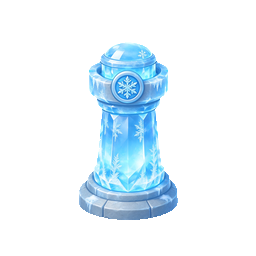
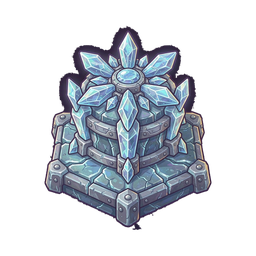
v1.17.14 art: 冰/毒塔俯视图标替换(毒塔三管120°v2)+四塔主体占比92%→80%+塔槽隐藏ⓘ圆标与弹药数字

diff --git a/js/game/render.js b/js/game/render.js
@@ -790,10 +790,8 @@ class Renderer {
         }
         // 等级（v1.17.10 不再显示右上角数字徽章，改槽底小字，避免遮挡塔图标）
         text(ctx, `Lv${tw.level}`, x + slotSize / 2, slotY + slotSize - 10, 13, 'rgba(255,255,255,0.75)', 'center');
-        // 可点详情小圆标 ⓘ（点击塔图标查看攻击/攻击间隔/技能等级）
-        ctx.fillStyle = 'rgba(255,255,255,0.85)';
-        ctx.beginPath(); ctx.arc(x + 17, slotY + 17, 11, 0, Math.PI * 2); ctx.fill();
-        text(ctx, 'i', x + 17, slotY + 21, 14, '#1a1a1a', 'center');
+        // v1.17.14：移除左上角 ⓘ 圆标与弹药条顶部数字——俯视塔占满槽位后两者都压住主体，
+        //   且整槽本身可点（slotAt），圆标无需保留；弹药量改由柱条高度 + 颜色表达。
         // v1.13.1 弹药条：图标右侧纵向柱状（自下而上填充，ammo/ammoMax），无弹药红色警示
         const aRatio = tw.ammoMax > 0 ? Math.min(1, (tw.ammo || 0) / tw.ammoMax) : 0;
         const bx = x + slotSize - 9;              // 槽内右侧竖条
@@ -803,7 +801,6 @@ class Renderer {
         ctx.fillRect(bx, by0, 7, bh);
         ctx.fillStyle = aRatio <= 0 ? '#ff6b6b' : (aRatio < 0.34 ? '#ffb347' : '#7ef0a3');
         ctx.fillRect(bx, by0 + bh - Math.max(1, bh * aRatio), 7, Math.max(1, bh * aRatio));
-        text(ctx, `${tw.ammo || 0}`, bx + 3, slotY + 5, 10, aRatio <= 0 ? '#ff6b6b' : 'rgba(255,255,255,0.7)', 'center');
         // v1.8：移除单塔经验条（经验整体化，经验条在出怪区上方）
       }
       x += slotSize + slotGap;

diff --git a/tools/_keyout_towers_v11714.py b/tools/_keyout_towers_v11714.py
@@ -1,0 +1,162 @@
+# -*- coding: utf-8 -*-
+"""v1.17.14 塔图标替换流水线（四塔版）
+
+相对 v1.17.13 的两处变化：
+1. 主体占比 92% → 80%（槽内四周留呼吸感，俯视塔不至于顶格）
+2. JOBS 扩到火/冰/毒/炮四塔，预览图合成四塔同屏接触表
+
+抠图难点：背景 (25,17,28) 与描边 #0E0B14 色距仅约 15，普通色距抠图会吃掉描边
+→ 从画面边缘 flood-fill，只删与边缘连通的背景（描边闭合，内部暗场不受影响）
+"""
+import os, shutil
+from collections import deque, Counter
+from PIL import Image, ImageFilter, ImageDraw, ImageFont
+
+ROOT = os.path.dirname(os.path.dirname(os.path.abspath(__file__)))
+os.chdir(ROOT)
+ART = "art/towers_v1"
+TOWERS = "assets/images/towers"
+BK = os.path.join(ART, "backup_sideview")
+os.makedirs(BK, exist_ok=True)
+
+JOBS = [
+    ("tower_fire_top_v1.png", "fire.png"),
+    ("tower_ice_top_v1.png", "ice.png"),
+    ("tower_poison_top_v2.png", "poison.png"),
+    ("tower_cannon_top_v1.png", "cannon.png"),
+]
+TOL = 10.0     # 背景与描边色距 ~15，取 10 保描边
+RATIO = 0.80   # v1.17.14：主体占画布比例（原 0.92）
+
+
+def keyout(fp_in, tol=TOL, ratio_target=RATIO):
+    im = Image.open(fp_in).convert("RGB")
+    w, h = im.size
+    px = im.load()
+    border = []
+    for x in range(w):
+        border.append(px[x, 0]); border.append(px[x, h - 1])
+    for y in range(h):
+        border.append(px[0, y]); border.append(px[w - 1, y])
+    bg = Counter(border).most_common(1)[0][0]
+    t2 = tol * tol
+
+    def isbg(c):
+        dr = c[0] - bg[0]; dg = c[1] - bg[1]; db = c[2] - bg[2]
+        return dr * dr + dg * dg + db * db <= t2
+
+    bgmask = bytearray(w * h)
+    q = deque()
+    for x in range(w):
+        for y in (0, h - 1):
+            i = y * w + x
+            if not bgmask[i] and isbg(px[x, y]):
+                bgmask[i] = 1; q.append((x, y))
+    for y in range(h):
+        for x in (0, w - 1):
+            i = y * w + x
+            if not bgmask[i] and isbg(px[x, y]):
+                bgmask[i] = 1; q.append((x, y))
+    while q:
+        x, y = q.popleft()
+        for nx, ny in ((x + 1, y), (x - 1, y), (x, y + 1), (x, y - 1)):
+            if 0 <= nx < w and 0 <= ny < h:
+                i = ny * w + nx
+                if not bgmask[i] and isbg(px[nx, ny]):
+                    bgmask[i] = 1; q.append((nx, ny))
+    removed = sum(bgmask)
+    ratio = removed / (w * h)
+    if ratio > 0.60:
+        print("  [WARN] 背景删除占比 %.0f%%，疑似描边漏色（检查 tol）" % (ratio * 100))
+
+    # 前景连通域过滤：只保留 >= 最大连通域 1% 的岛（清掉水印/噪点）
+    fg = bytearray(1 - b for b in bgmask)
+    seen = bytearray(w * h)
+    keep = bytearray(w * h)
+    comps = []
+    for i in range(w * h):
+        if fg[i] and not seen[i]:
+            comp = []
+            q = deque([i]); seen[i] = 1
+            while q:
+                j = q.popleft(); comp.append(j)
+                x, y = j % w, j // w
+                for nx, ny in ((x + 1, y), (x - 1, y), (x, y + 1), (x, y - 1)):
+                    if 0 <= nx < w and 0 <= ny < h:
+                        k = ny * w + nx
+                        if fg[k] and not seen[k]:
+                            seen[k] = 1; q.append(k)
+            comps.append(comp)
+    comps.sort(key=len, reverse=True)
+    biggest = len(comps[0]) if comps else 0
+    for comp in comps:
+        if len(comp) >= biggest * 0.01:
+            for j in comp:
+                keep[j] = 1
+    dropped = biggest and (len(fg) - sum(keep)) or 0
+
+    # alpha 通道 + 羽化 1px
+    alpha = Image.frombytes("L", (w, h), bytes(255 if keep[i] else 0 for i in range(w * h)))
+    alpha = alpha.filter(ImageFilter.GaussianBlur(1.0))
+    rgba = im.convert("RGBA")
+    rgba.putalpha(alpha)
+
+    # 裁边 + 居中（主体占 ratio_target）+ 256 输出
+    bbox = alpha.point(lambda v: 255 if v > 12 else 0).getbbox()
+    if not bbox:
+        raise RuntimeError("抠图后主体为空: " + fp_in)
+    subj = rgba.crop(bbox)
+    sw, sh = subj.size
+    side = int(max(sw, sh) / ratio_target)
+    canvas = Image.new("RGBA", (side, side), (0, 0, 0, 0))
+    canvas.paste(subj, ((side - sw) // 2, (side - sh) // 2), subj)
+    out = canvas.resize((256, 256), Image.LANCZOS)
+    print("  bg=%s 删背景%.0f%% 弃岛%dpx 主体%dx%d 占比%.0f%%"
+          % (bg, ratio * 100, dropped, sw, sh, ratio_target * 100))
+    return out
+
+
+previews = []
+for src, dst in JOBS:
+    fp_src = os.path.join(ART, src)
+    if not os.path.exists(fp_src):
+        print("跳过（缺原图）", fp_src)
+        previews.append(None)
+        continue
+    old = os.path.join(TOWERS, dst)
+    if os.path.exists(old):
+        bak = os.path.join(BK, dst)
+        # 只备份首次（真·旧侧视图），避免用新版覆盖备份
+        if not os.path.exists(bak):
+            shutil.copy2(old, bak)
+            print("备份 %s -> backup_sideview/" % dst)
+    out = keyout(fp_src)
+    out.save(os.path.join(TOWERS, dst))
+    print("写入", os.path.join(TOWERS, dst), out.size)
+    previews.append(out)
+
+# ---- 游戏内预览合成：tower_row_dark 背景 + 四塔同屏 ----
+S = 2
+row = Image.open("assets/images/ui/tower_row_dark.jpg").convert("RGB")
+W, H = row.size[0] * S, row.size[1] * S
+cv = row.resize((W, H), Image.LANCZOS).convert("RGBA")
+slot = 100 * S; gap = 28 * S
+itemN = 6
+x0 = int((750 * S - (itemN * slot + (itemN - 1) * gap)) / 2)
+slotX0 = x0 + slot + gap
+slotY = 12 * S
+names = ["火塔", "冰塔", "毒塔", "炮塔"]
+icons = [p for p in previews if p is not None]
+d = ImageDraw.Draw(cv)
+try:
+    font = ImageFont.truetype("C:/Windows/Fonts/msyh.ttc", 20)
+    font2 = ImageFont.truetype("C:/Windows/Fonts/msyh.ttc", 22)
+except Exception:
+    font = font2 = ImageFont.load_default()
+for i, ic in enumerate(icons):
+    x = slotX0 + i * (slot + gap)
+    cv.alpha_composite(ic.resize((98 * S, 98 * S), Image.LANCZOS), (x + 1 * S, slotY))
+    d.text((x + slot // 2, slotY + slot - 20), "Lv1", fill=(255, 255, 255, 190), font=font2, anchor="mm")
+    d.text((x + slot // 2, H - 26), names[i] if i < len(names) else "", fill=(255, 255, 255, 220), font=font, anchor="mm")
+cv.convert("RGB").save(os.path.join(ART, "preview_in_game.png"))
+print("预览:", os.path.join(ART, "preview_in_game.png"))
